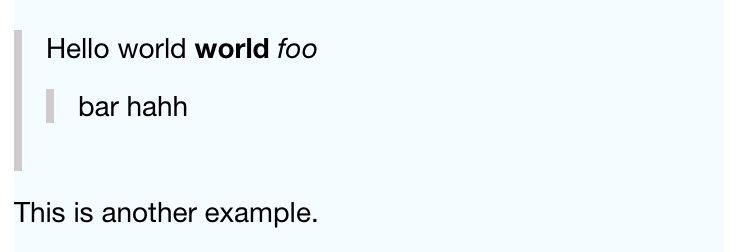
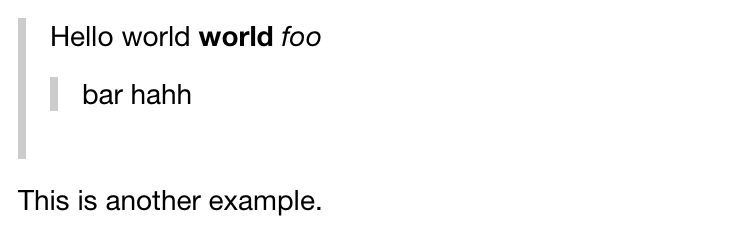
update image

Changed region(s): [[0.0, 0.0868, 0.4351, 0.6942], [0.0, 0.781, 0.4351, 0.8967]]

diff --git a/index.ios.js b/index.ios.js
@@ -15,7 +15,7 @@ var HtmlText = require('./lib/HtmlText')
 
 var HtmlTextApp = React.createClass({
   render: function() {
-    var html = `<blockquote><p>Hello world <b>world</b> <i>foo</i> <blockquote>bar hahh</blockquote></p></blockquote><p>This is another example.</p>`
+    var html = `<p>Hello world <b>world</b> <i>foo</i> bar hahh</p>`
 
     return (
       <View style={styles.container}>
@@ -30,7 +30,7 @@ var styles = StyleSheet.create({
     flex: 1,
     justifyContent: 'center',
     alignItems: 'stretch',
-    backgroundColor: '#F5FCFF',
+    backgroundColor: '#ffffff',
     margin: 10,
 
   },
